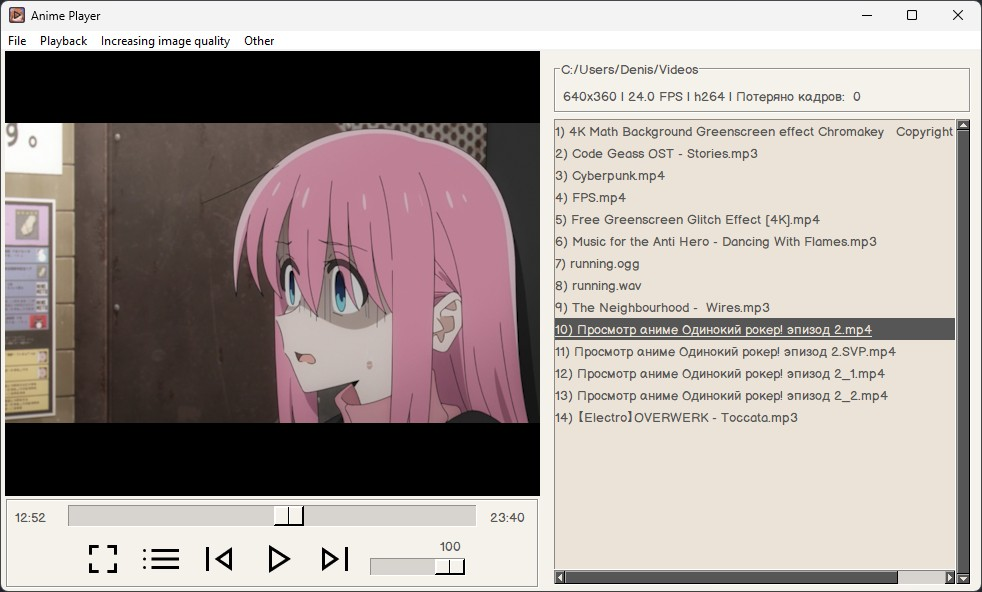
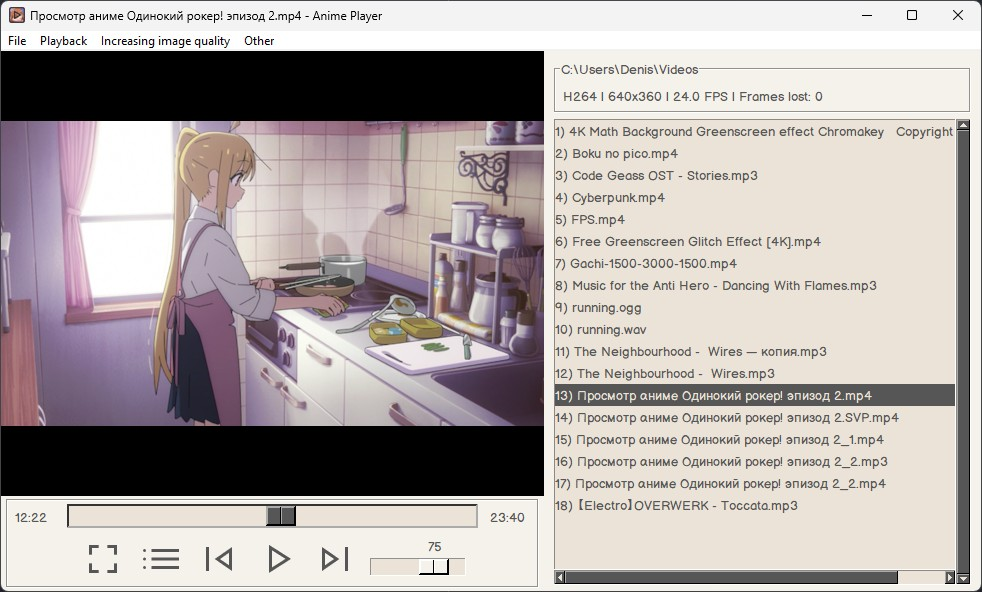
List of changes: - Added ability to change playback speed - Fixed minor bugs - Updated localization into English

diff --git a/main.py b/main.py
@@ -66,7 +66,13 @@ menu = [
          loc['Close'] + '::-CLOSE-', '---', loc['Settings'] + '::-SETTINGS-', '---', loc['Exit'] + '::-EXIT-']
     ],
     [
-        loc['Playback'], [loc['Play | Pause'] + '::-TAB_PLAY-', '---', loc['Fullscreen'] + '::-TAB_FS-']
+        loc['Playback'],
+        [
+            loc['Play | Pause'] + '::-TAB_PLAY-',
+            loc['Playback speed'],
+            ['x0.25', 'x0.5', 'x0.75', 'x1.0', 'x1.25', 'x1.5', 'x1.75', 'x2.0', 'x2.25', 'x2.5', 'x2.75', 'x3.0'],
+            '---', loc['Fullscreen'] + '::-TAB_FS-'
+        ]
     ],
     [
         loc['Increasing image quality'], [loc['Disable'] + '::-DISABLE-', '---'] + tabs
@@ -85,7 +91,10 @@ right_click_menu = [
         '---',
         loc['Settings'] + '::-SETTINGS-',
         '---',
-        loc['Play | Pause'] + '::-TAB_PLAY-', loc['Fullscreen'] + '::-TAB_FS-',
+        loc['Play | Pause'] + '::-TAB_PLAY-',
+        loc['Playback speed'],
+        ['x0.25', 'x0.5', 'x0.75', 'x1.0', 'x1.25', 'x1.5', 'x1.75', 'x2.0', 'x2.25', 'x2.5', 'x2.75', 'x3.0'],
+        loc['Fullscreen'] + '::-TAB_FS-',
         '---',
         loc['Increasing image quality'], [loc['Disable'] + '::-DISABLE-', '---'] + tabs,
         loc['Other'], [loc['Reference'] + '::-REFERENCE-', loc['Activate SVP'] + '::-SVP-',
@@ -314,13 +323,14 @@ class Player:
         sg.user_settings_set_entry('opened', ['', ''])
 
     @classmethod
-    def update_filelist(cls):
+    def update_filelist(cls, file_name_in_list: str):
         """
         Обновление списка файлов
+        :param file_name_in_list: Имя файла в списке файлов (вместе с номером)
         """
         if len(cls.filenames_only) >= 1:
-            if len(cls.filenames_only) > 1 or len(values['-FILELIST-'][0]) > 1 and values['-FILELIST-'][0][1] == ')':
-                filename_temp = os.path.join(cls.folder, values['-FILELIST-'][0].split(' ', 1)[-1])
+            if len(cls.filenames_only) > 1 or len(file_name_in_list) > 1 and file_name_in_list[1] == ')':
+                filename_temp = os.path.join(cls.folder, file_name_in_list.split(' ', 1)[-1])
                 if cls.filename != filename_temp or cls.filenum < 0:
                     cls.filename = filename_temp
                     cls.filenum = cls.files.index(cls.filename)
@@ -421,6 +431,8 @@ class Player:
                         if file is not None and os.path.exists(file):
                             cls.filename = file
                             cls.filenum = cls.files.index(cls.filename)
+                            window.set_title(f'{cls.filename.rsplit(os.sep, 1)[-1]} - {name_program}')
+                            window['-FILELIST-'].update(set_to_index=cls.filenum, scroll_to_index=cls.filenum)
                             player.play(cls.filename)
                             if on_pos_last_file is None or on_pos_last_file:
                                 cls.position_recovery(position)
@@ -484,7 +496,7 @@ while True:
                 player.hwdec_codecs = 'all'
                 player.hr_seek_framedrop = False
         case '-FILELIST-':
-            Player.update_filelist()
+            Player.update_filelist(values['-FILELIST-'][0])
         # ------------------ Клавиатура ------------------
         case 'Right:39':
             if player.time_pos is not None:
@@ -521,15 +533,15 @@ while True:
             new_link = ''
             open_url_layout = [
                 [sg.Text('Введите URL-адрес')],
-                [sg.Combo(links_history, size=(35, 10), key='-LINK-'), sg.Button('Очистить', key='-CLEAR-')],
-                [sg.Button('ОК', size=(6, 1)), sg.Button('Отмена', size=(6, 1))]
+                [sg.Combo(links_history, size=(35, 10), key='-LINK-'), sg.Button(loc['Clear'], key='-CLEAR-')],
+                [sg.Button('OK', size=(6, 1)), sg.Button(loc['Cancel'], size=(6, 1))]
             ]
             open_url_window = sg.Window('Открытие ссылки', open_url_layout, modal=True)
             while True:
                 event, values = open_url_window.read()
-                if event == sg.WINDOW_CLOSED or event == 'Отмена':
+                if event == sg.WINDOW_CLOSED or event == loc['Cancel']:
                     break
-                elif event == 'ОК':
+                elif event == 'OK':
                     new_link = values['-LINK-'].strip()
                     break
                 elif event == '-CLEAR-':
@@ -548,15 +560,16 @@ while True:
             new_folder = ''
             open_folder_layout = [
                 [sg.Text('Выберите папку')],
-                [sg.Combo(folders_history, size=(35, 10), key='-FOLDER-'), sg.Button('Выбрать', key='-BROWSE-'), sg.Button('Очистить', key='-CLEAR-')],
-                [sg.Button('ОК', size=(6, 1)), sg.Button('Отмена', size=(6, 1))]
+                [sg.Combo(folders_history, size=(35, 10), key='-FOLDER-'), sg.Button(loc['Select'], key='-BROWSE-'),
+                 sg.Button(loc['Clear'], key='-CLEAR-')],
+                [sg.Button('OK', size=(6, 1)), sg.Button(loc['Cancel'], size=(6, 1))]
             ]
             open_folder_window = sg.Window('Открытие папки', open_folder_layout, modal=True)
             while True:
                 event, values = open_folder_window.read()
-                if event == sg.WINDOW_CLOSED or event == 'Отмена':
+                if event == sg.WINDOW_CLOSED or event == loc['Cancel']:
                     break
-                elif event == 'ОК':
+                elif event == 'OK':
                     new_folder = values['-FOLDER-'].strip()
                     break
                 elif event == '-CLEAR-':
@@ -577,6 +590,9 @@ while True:
                 Player.open_folder(new_folder)
         case '-CLOSE-':
             Player.close()
+        case 'x0.25' | 'x0.5' | 'x0.75' | 'x1.0' | 'x1.25' | 'x1.5' | 'x1.75' | 'x2.0' | 'x2.25' | 'x2.5' | 'x2.75' | 'x3.0':
+            print(event)
+            player.speed = float(event[1:])
         case '-DISABLE-':
             anime4k.current_preset = ''
             player.glsl_shaders = ''
@@ -630,30 +646,30 @@ while True:
                     lang = 'Auto'
             settings_layout = [
                 [
-                    sg.Text('Выбор языка (требуется перезагрузка)'),
+                    sg.Text(loc['Language selection (requires reboot)']),
                     sg.Combo(['Auto', 'Русский', 'English'], readonly=True, default_value=lang, key='-LANGUAGE-')
                 ],
                 [
-                    sg.Checkbox('При запуске открывать последний открытый файл', key='-OPEN_LAST_FILE-',
+                    sg.Checkbox(loc['On startup, open the last opened file'], key='-OPEN_LAST_FILE-',
                                 default=sg.user_settings_get_entry('onOpenLastFile', True))
                 ],
                 [
-                    sg.Checkbox('Устанавливать позицию последнего открытого файла', key='-POS_LAST_FILE-',
+                    sg.Checkbox(loc['Set the position of the last opened file'], key='-POS_LAST_FILE-',
                                 default=sg.user_settings_get_entry('onPosLastFile', True))
                 ],
                 [
-                    sg.Checkbox('Темная тема (требуется перезагрузка)', key='-DARK_THEME-',
+                    sg.Checkbox(loc['Dark theme (requires reboot)'], key='-DARK_THEME-',
                                 default=sg.user_settings_get_entry('darkTheme', False))
                 ],
                 [
-                    sg.OK(size=(6, 1)), sg.Button('Отмена', size=(6, 1))
+                    sg.OK(size=(6, 1)), sg.Button(loc['Cancel'], key='-CANCEL-', size=(6, 1))
                 ]
             ]
             settings_windows = sg.Window(loc['Settings'], settings_layout, modal=True)
             while True:
                 event, values = settings_windows.read()
                 match event:
-                    case sg.WINDOW_CLOSED | 'Отмена':
+                    case sg.WINDOW_CLOSED | '-CANCEL-':
                         break
                     case 'OK':
                         sg.user_settings_set_entry('language', values['-LANGUAGE-'])

diff --git a/localization.py b/localization.py
@@ -29,7 +29,16 @@ en = {
     'Previous file': 'Previous file',
     'Sound level': 'Sound level',
     'Frames lost': 'Frames lost',
-    'Information': 'Information'
+    'Information': 'Information',
+    'Clear': 'Clear',
+    'Select': 'Select',
+    'Cancel': 'Cancel',
+    'Language selection (requires reboot)': 'Language selection (requires reboot)',
+    'On startup, open the last opened file': 'On startup, open the last opened file',
+    'Set the position of the last opened file': 'Set the position of the last opened file',
+    'Dark theme (requires reboot)': 'Dark theme (requires reboot)',
+    'Speed': 'Speed',
+    'Playback speed': 'Playback speed'
 }
 
 ru = {
@@ -61,7 +70,16 @@ ru = {
     'Previous file': 'Предыдущий файл',
     'Sound level': 'Уровень звука',
     'Frames lost': 'Потеряно кадров',
-    'Information': 'Информация'
+    'Information': 'Информация',
+    'Clear': 'Очистить',
+    'Select': 'Выбрать',
+    'Cancel': 'Отмена',
+    'Language selection (requires reboot)': 'Выбор языка (требуется перезагрузка)',
+    'On startup, open the last opened file': 'При запуске открывать последний открытый файл',
+    'Set the position of the last opened file': 'Устанавливать позицию последнего открытого файла',
+    'Dark theme (requires reboot)': 'Темная тема (требуется перезагрузка)',
+    'Speed': 'Скорость',
+    'Playback speed': 'Скорость воспроизведения'
 }
 
 match locale.getlocale()[0]:
